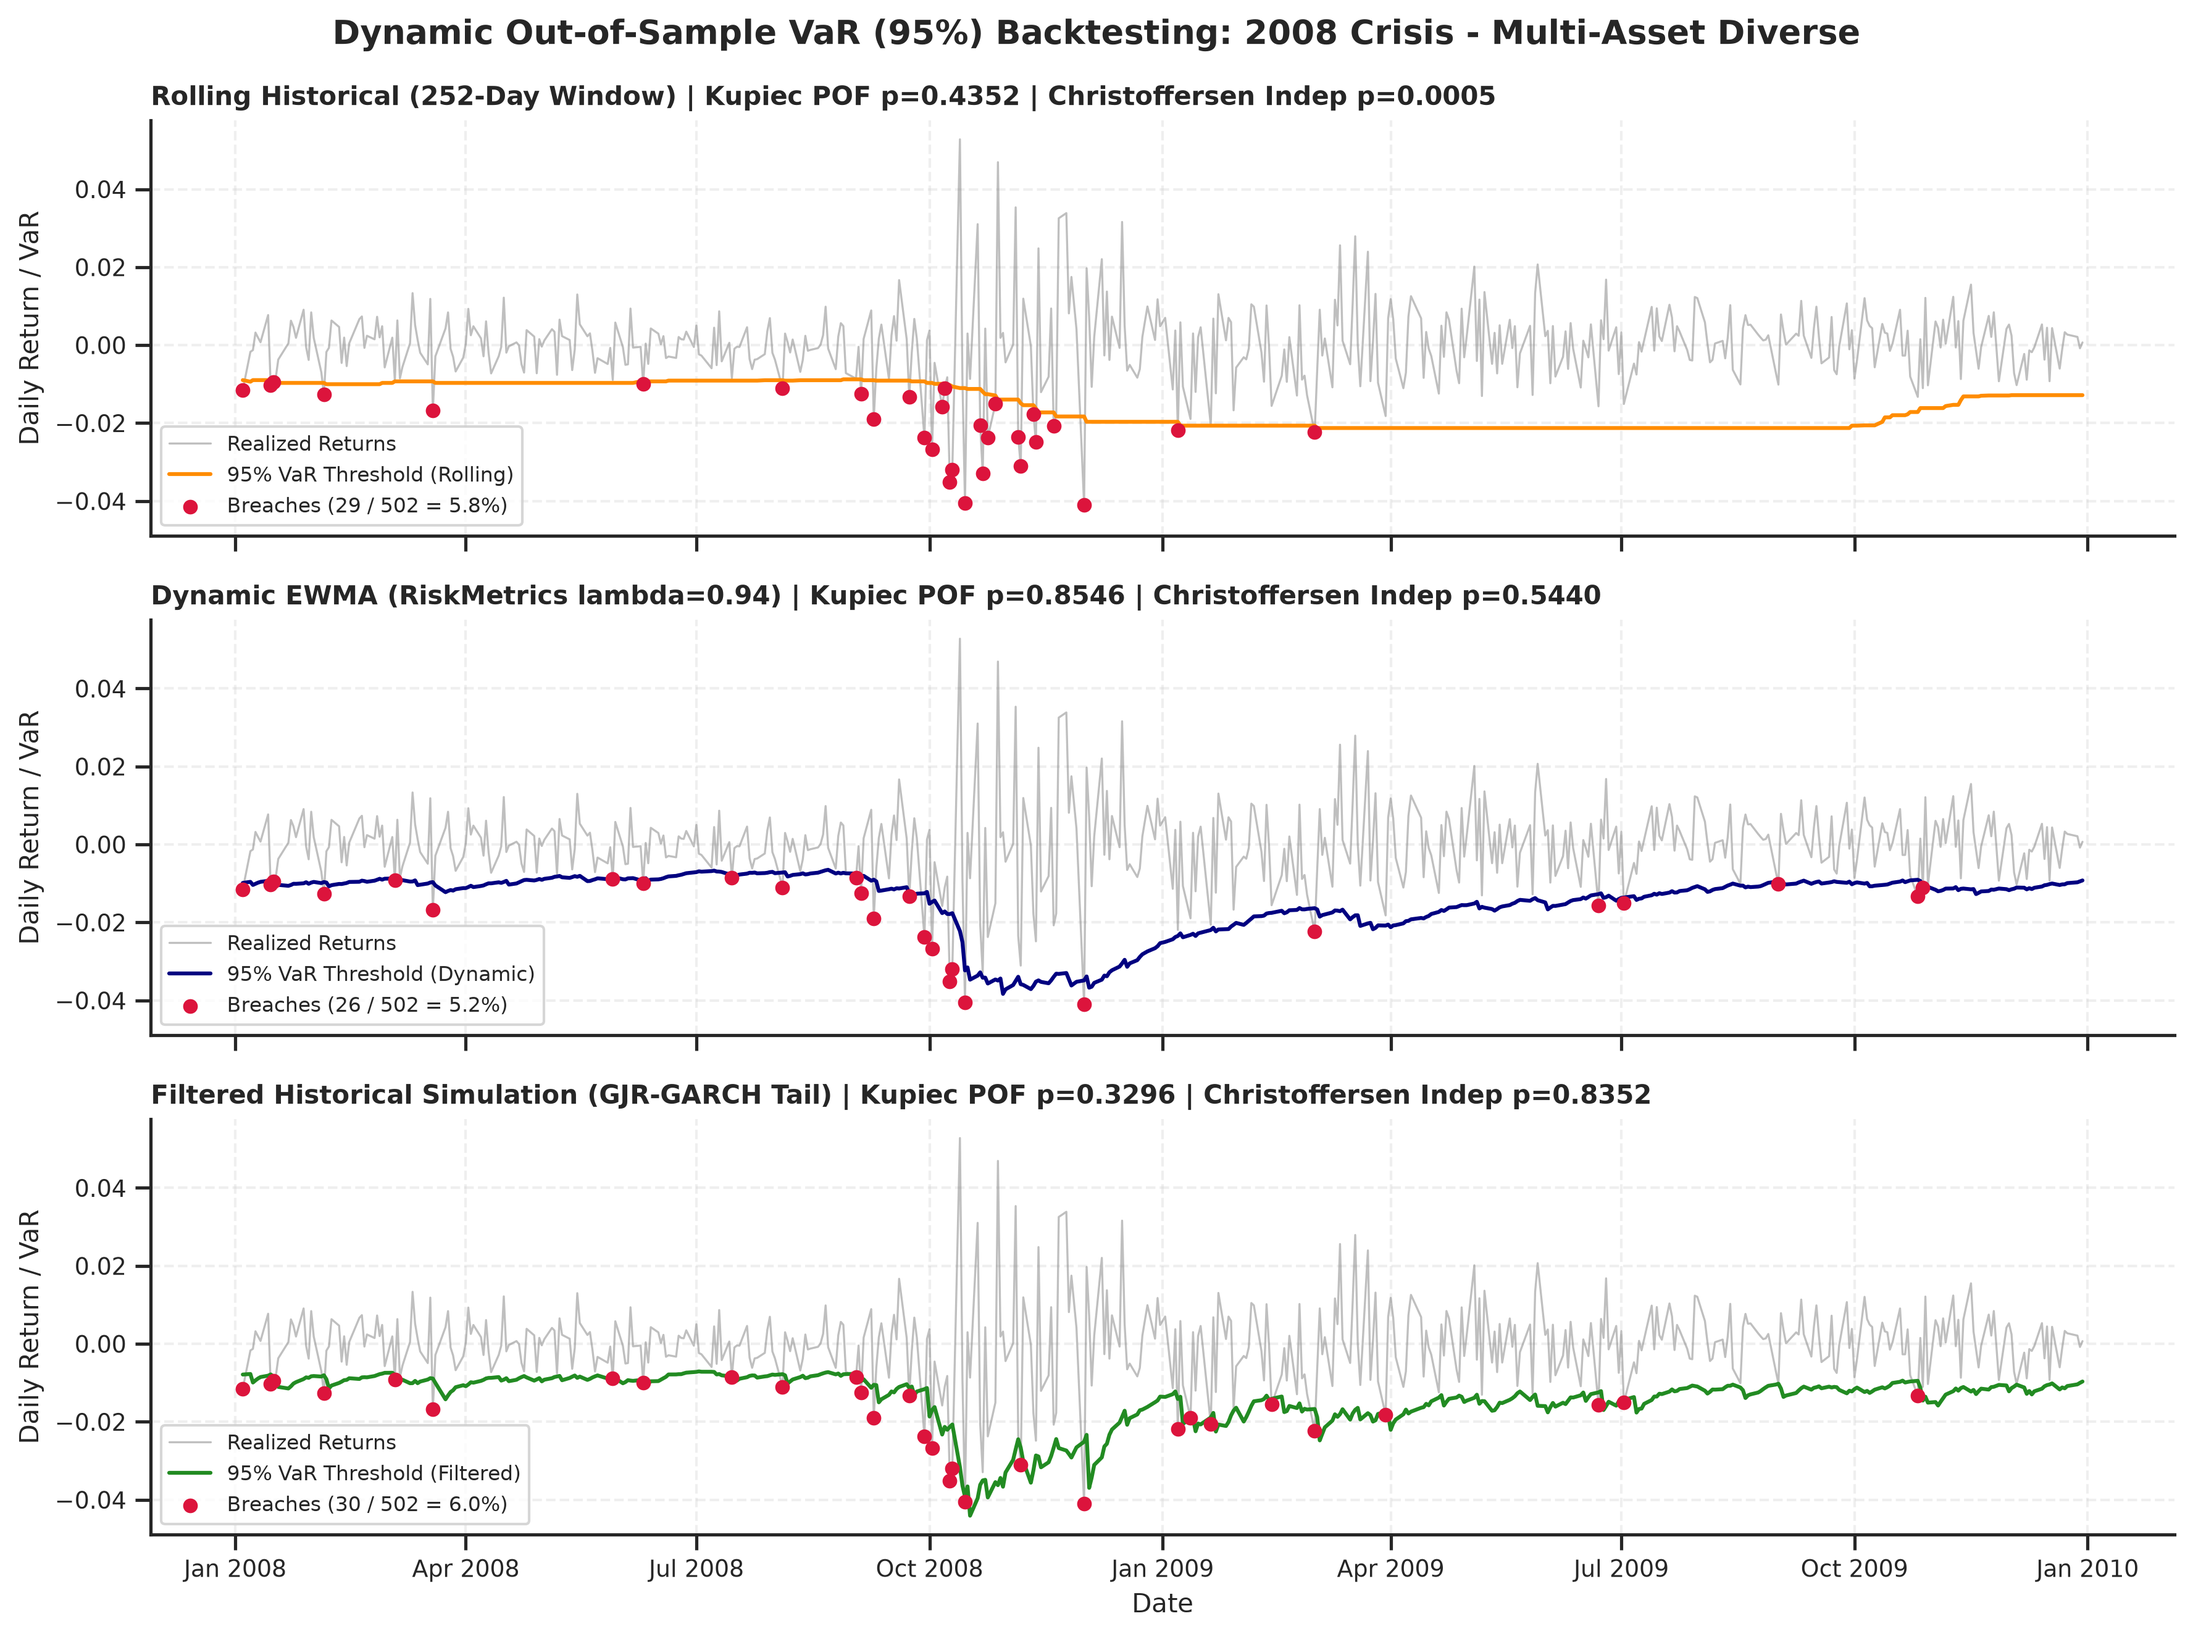
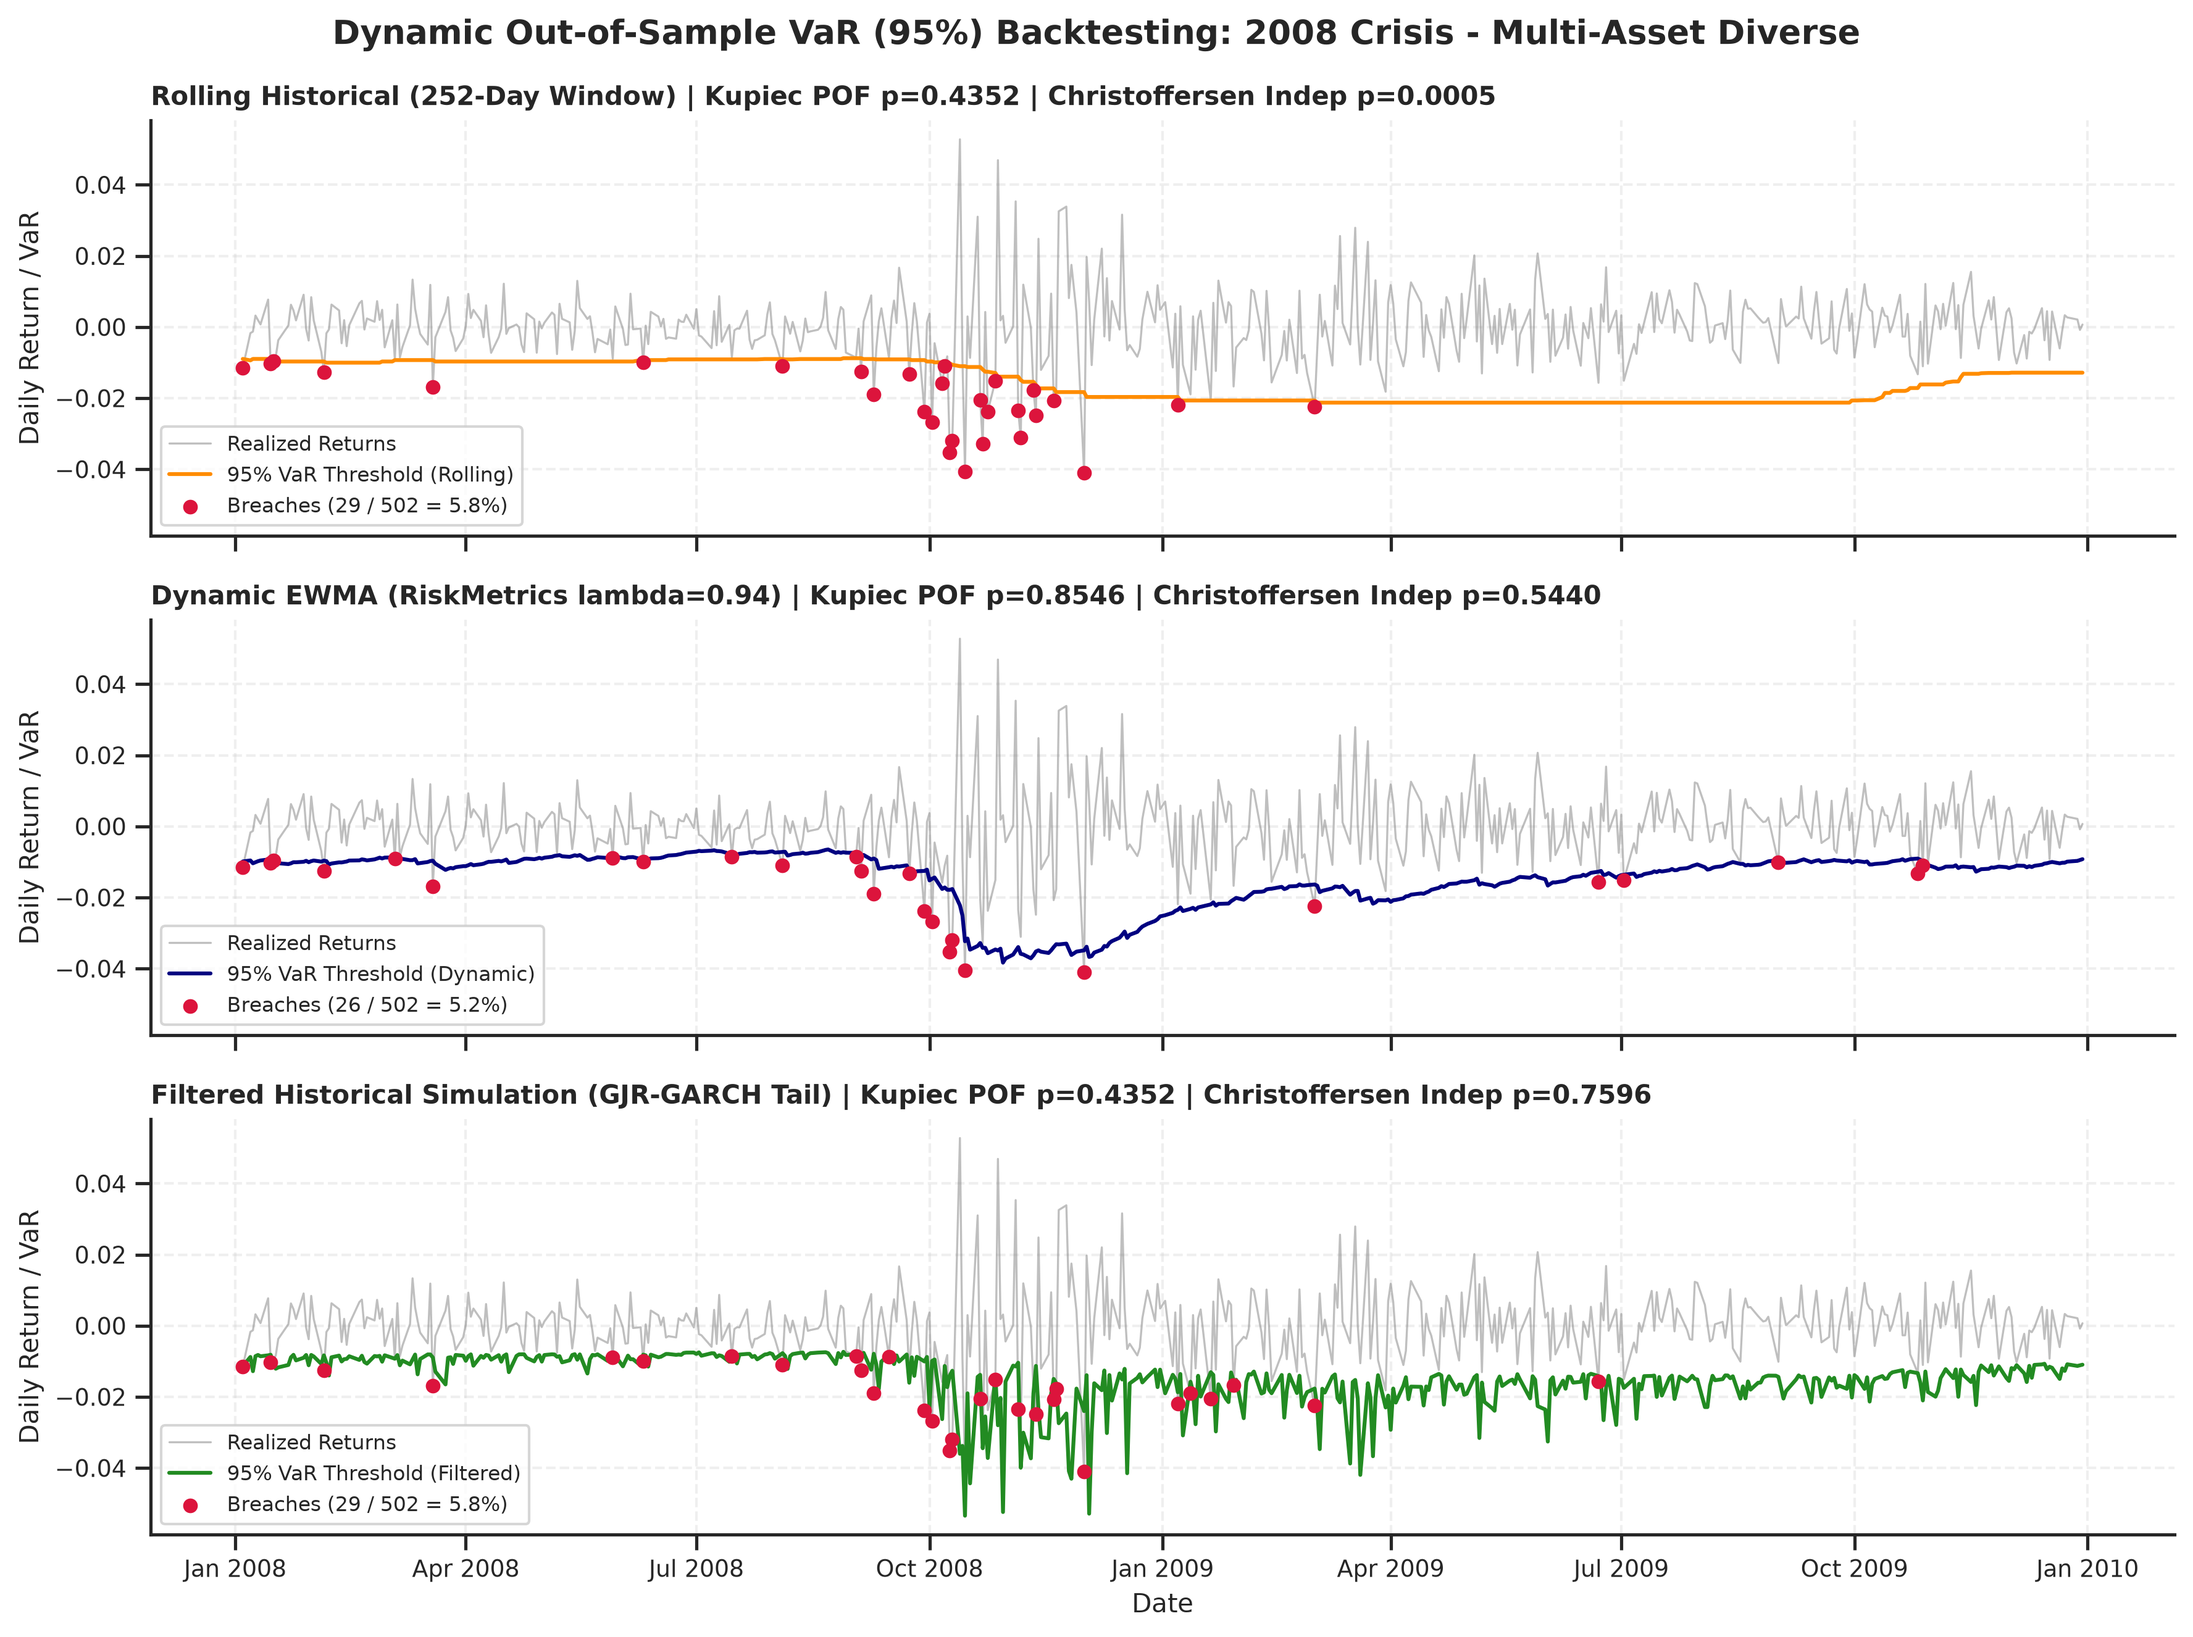
Update output paths and add new descriptive statistics CSV file

diff --git a/main.py b/main.py
@@ -1,6 +1,6 @@
 """Main entrypoint for historical VaR analysis and stress testing pipelines."""
 
-from stress_engine.portfolio import PortfolioVaR
+from stress_engine.portfolio import PortfolioVaR, export_descriptive_statistics
 
 
 def main() -> None:
@@ -127,7 +127,7 @@ def main() -> None:
         plot_var_backtest_diagnostics(
             portfolio=port,
             lookback_window=252,
-            output_filename=f"var_diagnostics_{clean_name}.png",
+            output_filename=f"data/output/var_diagnostics_{clean_name}.png",
         )
 
     # Generate 4D Monte Carlo Drawdown Surface Chart

diff --git a/src/stress_engine/portfolio.py b/src/stress_engine/portfolio.py
@@ -328,9 +328,10 @@ class PortfolioVaR:
 
 
 def export_descriptive_statistics(
-    portfolio_list: list, output_dir: str | Path = "data/raw"
+    portfolio_list: list, output_dir: str | Path = "data/output"
 ) -> pd.DataFrame:
-    """Computes vectorized descriptive statistics and out-of-sample exception
+    """
+    Computes vectorized descriptive statistics and out-of-sample exception
     counts for multiple portfolios, exporting the master summary to CSV
     for Week 10 MS Excel chart generation.
     """
